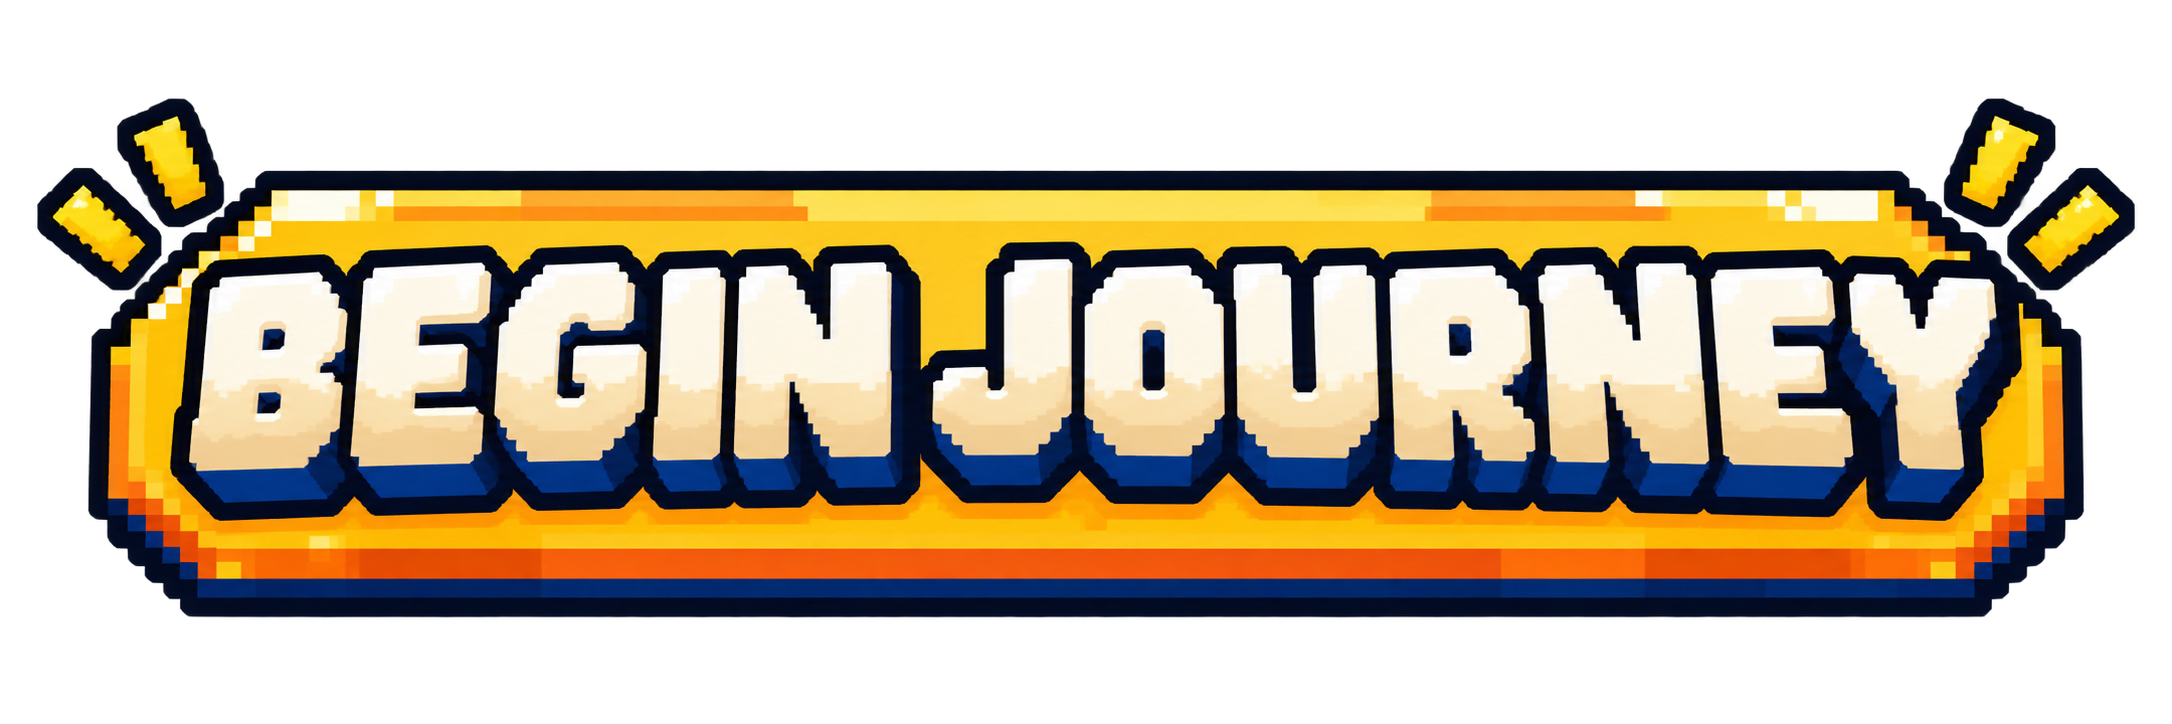
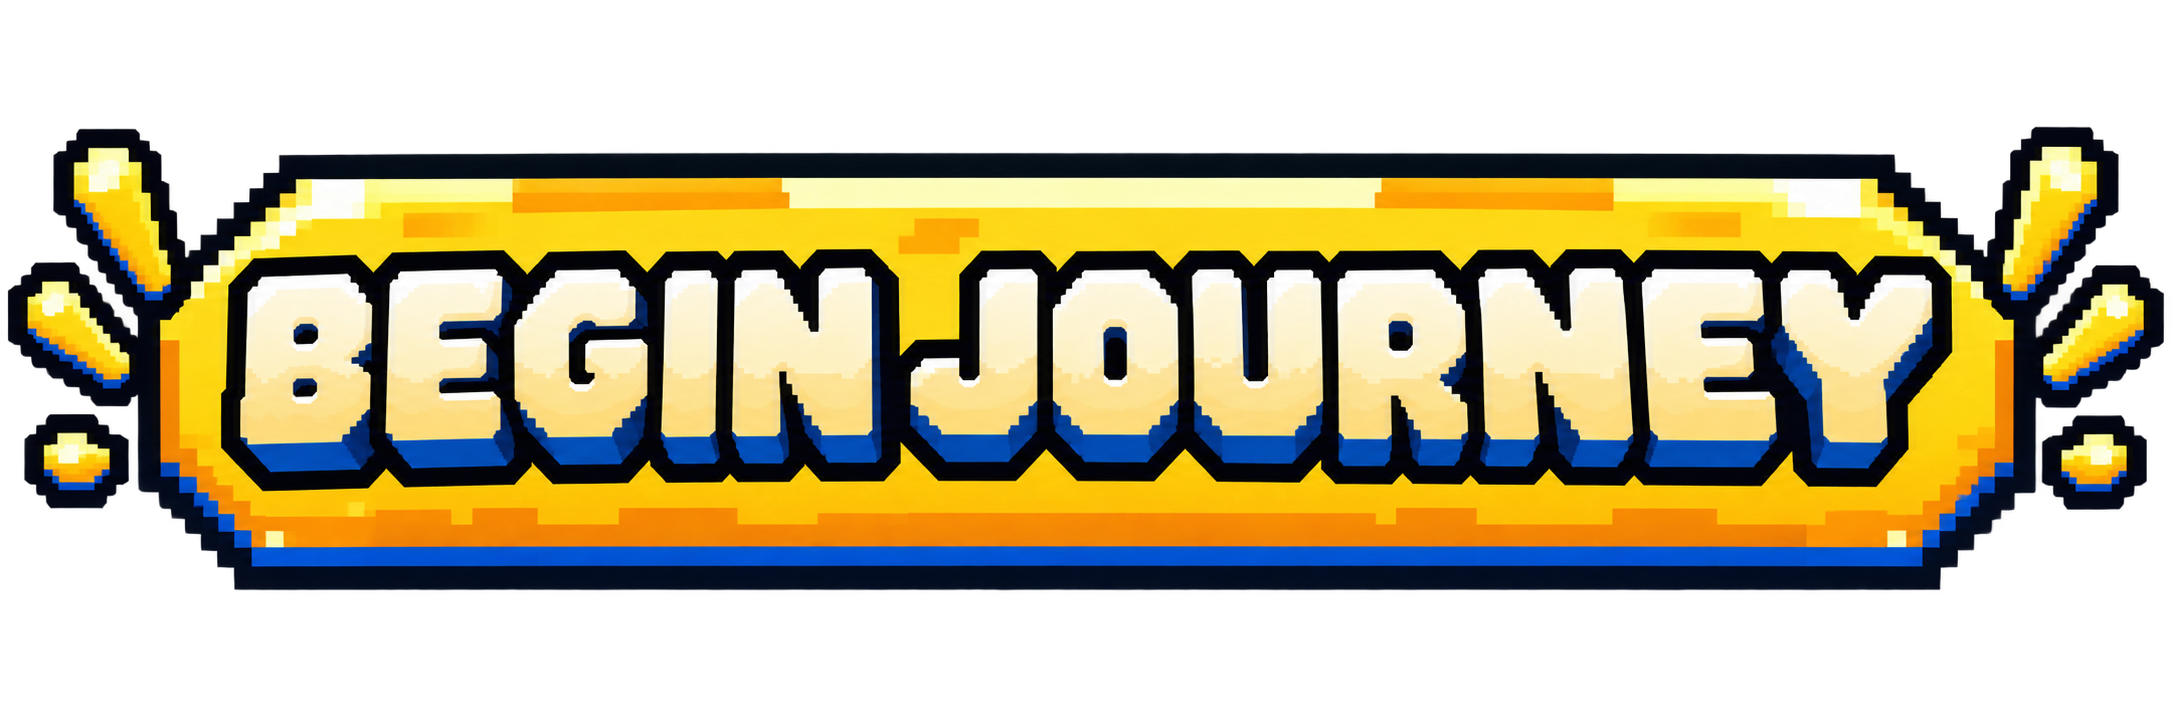
Polish menu artwork and layout and add audio volume sliders

diff --git a/src/shared/LevelAudio.js b/src/shared/LevelAudio.js
@@ -6,8 +6,20 @@ const MUSIC_FILES = {
   level3: "./assets/audio/music/level3-dont-get-caught.wav"
 };
 
+const audioInstances = new Set();
+let musicVolume = 1;
+let soundEffectsVolume = 1;
+
+export function setAudioVolumes(music, effects) {
+  musicVolume = Math.max(0, Math.min(1, Number(music) || 0));
+  soundEffectsVolume = Math.max(0, Math.min(1, Number(effects) || 0));
+  audioInstances.forEach((audio) => audio.applyVolumes());
+}
+
 export class LevelAudio {
   constructor() {
+    audioInstances.add(this);
+    this.soundEffects = new Map();
     this.context = null;
     this.master = null;
     this.engine = null;
@@ -41,10 +53,10 @@ export class LevelAudio {
     if (!AudioContext) return false;
     this.context = new AudioContext();
     this.master = this.context.createGain();
-    this.master.gain.value = this.isMuted ? 0 : 0.16;
+    this.master.gain.value = this.isMuted ? 0 : 0.16 * soundEffectsVolume;
     this.master.connect(this.context.destination);
     this.musicGain = this.context.createGain();
-    this.musicGain.gain.value = this.isMuted ? 0 : MUSIC_GAIN;
+    this.musicGain.gain.value = this.isMuted ? 0 : MUSIC_GAIN * musicVolume;
     this.musicLimiter = this.context.createDynamicsCompressor();
     this.musicLimiter.threshold.value = -8;
     this.musicLimiter.knee.value = 4;
@@ -70,7 +82,10 @@ export class LevelAudio {
     if (this.ensure()) {
       this.musicSource = this.context.createMediaElementSource(music);
       this.musicSource.connect(this.musicGain);
-    } else music.muted = this.isMuted;
+    } else {
+      music.muted = this.isMuted;
+      music.volume = musicVolume;
+    }
     if (this.musicEnabled) music.play().catch(() => {});
   }
 
@@ -149,14 +164,34 @@ export class LevelAudio {
     this.cue(920, 0.035, 0.025);
   }
 
+  trackSoundEffect(element, baseVolume = 1) {
+    this.soundEffects.set(element, baseVolume);
+    element.volume = baseVolume * soundEffectsVolume;
+    element.muted = this.isMuted;
+    element.addEventListener("ended", () => this.soundEffects.delete(element), { once: true });
+  }
+
+  applyVolumes() {
+    if (this.master) this.master.gain.value = this.isMuted ? 0 : 0.16 * soundEffectsVolume;
+    if (this.musicGain) this.musicGain.gain.value = this.isMuted ? 0 : MUSIC_GAIN * musicVolume;
+    if (this.music && !this.musicSource) {
+      this.music.muted = this.isMuted;
+      this.music.volume = musicVolume;
+    }
+    this.soundEffects.forEach((baseVolume, element) => {
+      element.volume = baseVolume * soundEffectsVolume;
+      element.muted = this.isMuted;
+    });
+  }
+
   setMuted(muted) {
     this.isMuted = muted;
-    if (this.master) this.master.gain.value = muted ? 0 : 0.16;
-    if (this.musicGain) this.musicGain.gain.value = muted ? 0 : MUSIC_GAIN;
-    if (this.music && !this.musicSource) this.music.muted = muted;
+    this.applyVolumes();
   }
 
   dispose() {
+    audioInstances.delete(this);
+    this.soundEffects.clear();
     this.stopMusic();
     this.engine?.stop();
     this.ambience?.stop();

diff --git a/src/core/GraphicsSettings.js b/src/core/GraphicsSettings.js
@@ -1,4 +1,5 @@
 import * as THREE from "three";
+import { setAudioVolumes } from "../shared/LevelAudio.js";
 
 const STORAGE_KEY = "wits-commute-graphics-settings";
 
@@ -8,7 +9,7 @@ const PRESETS = Object.freeze({
   high: { resolution: "1", antialiasing: "on", shadows: "high", effects: "on", viewDistance: "far" }
 });
 
-const DEFAULT_SETTINGS = Object.freeze({ preset: "auto", ...PRESETS.medium });
+const DEFAULT_SETTINGS = Object.freeze({ preset: "auto", musicVolume: "100", soundEffectsVolume: "100", ...PRESETS.medium });
 
 function loadSettings() {
   try {
@@ -37,11 +38,16 @@ export class GraphicsSettings {
       effects: document.querySelector("#graphics-effects"),
       viewDistance: document.querySelector("#graphics-view-distance")
     };
+    this.audioControls = {
+      musicVolume: document.querySelector("#settings-music-volume"),
+      soundEffectsVolume: document.querySelector("#settings-effects-volume")
+    };
     this.settings = loadSettings();
     if (this.settings.preset === "auto") {
       Object.assign(this.settings, this.resolvePreset("auto"));
     }
 
+    this.form.addEventListener("input", (event) => this.onAudioInput(event));
     this.form.addEventListener("change", (event) => this.onChange(event));
     this.element.addEventListener("click", (event) => this.onClick(event));
     this.syncControls();
@@ -93,6 +99,7 @@ export class GraphicsSettings {
   }
 
   onChange(event) {
+    if (event.target.type === "range") return;
     const changed = event.target.id;
     if (changed === "graphics-preset") {
       this.settings.preset = this.controls.preset.value;
@@ -116,6 +123,22 @@ export class GraphicsSettings {
     return (navigator.deviceMemory ?? 4) <= 4 ? PRESETS.low : PRESETS.medium;
   }
 
+  onAudioInput(event) {
+    const entry = Object.entries(this.audioControls).find(([, control]) => control === event.target);
+    if (!entry) return;
+    const [key, control] = entry;
+    this.settings[key] = control.value;
+    this.applyAudio();
+  }
+
+  applyAudio() {
+    setAudioVolumes(Number(this.settings.musicVolume) / 100, Number(this.settings.soundEffectsVolume) / 100);
+    Object.entries(this.audioControls).forEach(([key, control]) => {
+      control.value = this.settings[key];
+      document.querySelector(`#${control.id}-value`).textContent = `${control.value}%`;
+    });
+  }
+
   syncControls() {
     Object.entries(this.controls).forEach(([key, control]) => {
       control.value = this.settings[key];
@@ -123,6 +146,7 @@ export class GraphicsSettings {
   }
 
   apply() {
+    this.applyAudio();
     const pixelRatio = Math.min(window.devicePixelRatio * Number(this.settings.resolution), 2);
     this.renderer.setPixelRatio(pixelRatio);
     this.renderer.shadowMap.enabled = this.settings.shadows !== "off";

diff --git a/src/style.css b/src/style.css
@@ -2604,12 +2604,15 @@ body.graphics-effects-off #level2-vignette {
   user-select: none;
 }
 
-/* The selected source has 20px more top padding on its 724px canvas. */
+/* Align the selected plate with the dull artwork while keeping its side accents. */
 .journey-button-selected {
   position: absolute;
-  inset: 0;
+  left: -2.78%;
+  top: -0.29%;
+  width: 105.43%;
+  height: 101.38%;
+  object-fit: fill;
   opacity: 0;
-  transform: translateY(-2.7%);
 }
 #home-menu-primary-action:is(:hover, :focus-visible):not(:disabled) .journey-button-selected { opacity: 1; }
 #home-menu-primary-action:focus-visible { outline: 3px solid #fff; outline-offset: 4px; }
@@ -2660,10 +2663,10 @@ body.graphics-effects-off #level2-vignette {
 }
 
 .home-menu-actions {
-  left: 70%;
+  left: min(70%, calc(100% - min(38.25vw, 30.6rem) - 1rem));
   right: auto;
   transform: translateX(-50%);
-  width: min(60vw, 48rem);
+  width: min(76.5vw, 61.2rem);
   grid-template-columns: repeat(2, minmax(0, 1fr));
   column-gap: 1rem;
 }
@@ -2695,3 +2698,34 @@ body.graphics-effects-off #level2-vignette {
 /* Lift keyboard selection, then give the hovered button highest priority. */
 .home-menu-actions button:focus-visible { z-index: 2; }
 .home-menu-actions button:hover { z-index: 3; }
+
+#menu.menu-credits {
+  background: linear-gradient(rgba(255,255,255,.18), rgba(255,255,255,.3)),
+    url("../public/assets/images/ui/main-menu-v3-background.png") center / cover no-repeat;
+}
+
+#menu.menu-credits .menu-card {
+  display: grid;
+  grid-template-rows: auto auto auto minmax(0, 1fr);
+  height: min(88vh, 760px);
+  overflow: hidden;
+}
+
+#menu.menu-credits #menu-primary-action {
+  order: -1;
+  justify-self: start;
+  margin: 0 0 0.8rem;
+}
+
+#menu.menu-credits #menu-copy {
+  min-height: 0;
+  overflow-y: auto;
+  padding-right: 0.75rem;
+}
+
+#menu.menu-credits [data-game-action="settings"] { display: none; }
+
+.audio-volume-control { display: flex; align-items: center; gap: 0.6rem; }
+.audio-volume-control input { width: 100%; min-width: 0; accent-color: #243556; }
+.audio-volume-control output { min-width: 3ch; text-align: right; font-variant-numeric: tabular-nums; }
+.graphics-settings-card { max-height: 90vh; overflow-y: auto; }

diff --git a/index.html b/index.html
@@ -221,8 +221,14 @@
     <section id="graphics-settings" hidden aria-labelledby="graphics-settings-title">
       <form id="graphics-settings-form" class="graphics-settings-card">
         <p class="menu-kicker">SETTINGS</p>
-        <h2 id="graphics-settings-title">Graphics</h2>
+        <h2 id="graphics-settings-title">Settings</h2>
         <p class="graphics-settings-copy">Changes preview immediately and are saved when applied. Anti-aliasing applies after reloading the page.</p>
+        <label for="settings-music-volume">Music
+          <span class="audio-volume-control"><input id="settings-music-volume" type="range" min="0" max="100" step="1" value="100" /><output id="settings-music-volume-value" for="settings-music-volume">100%</output></span>
+        </label>
+        <label for="settings-effects-volume">Sound effects
+          <span class="audio-volume-control"><input id="settings-effects-volume" type="range" min="0" max="100" step="1" value="100" /><output id="settings-effects-volume-value" for="settings-effects-volume">100%</output></span>
+        </label>
         <label>Preset
           <select id="graphics-preset">
             <option value="auto">Auto</option>

diff --git a/src/core/Game.js b/src/core/Game.js
@@ -834,7 +834,7 @@ export class Game {
   playOneShotAudio(path, volume = 1) {
     if (this.isSoundMuted) return;
     const audio = new Audio(path);
-    audio.volume = volume;
+    this.uiAudio.trackSoundEffect(audio, volume);
     audio.play().catch(() => {
       // Browsers can block this if the game's initial click did not count as
       // a user activation. The level transition remains usable in that case.
@@ -1093,7 +1093,7 @@ export class Game {
   showCredits() {
     this.menuTitleElement.textContent = "Credits";
     this.menuCopyElement.textContent = "Wits Commute Simulator — COMS3006A / COMS3025A. Built with Three.js by the project team.";
-    this.menuPrimaryAction.textContent = "Back to menu";
+    this.menuPrimaryAction.textContent = "Back";
     this.menuCopyElement.innerHTML = CREDITS.map(({ heading, entries }) => `
       <section class="credits-section" aria-label="${heading}">
         <h2>${heading}</h2>

diff --git a/src/levels/ParkingLevel.js b/src/levels/ParkingLevel.js
@@ -2387,7 +2387,7 @@ createParkingSurface(potholes = []) {
 
     const idleAudio = new Audio("./assets/audio/level1/idle-car.wav");
     idleAudio.loop = true;
-    idleAudio.volume = 0.15;
+    this.audio.trackSoundEffect(idleAudio, 0.15);
     idleAudio.muted = this.game.isSoundMuted;
     this.carIdleAudio = idleAudio;
     idleAudio.play().catch(() => {
@@ -2407,7 +2407,7 @@ createParkingSurface(potholes = []) {
     }
 
     const hit = this.collisionHitAudio.cloneNode();
-    hit.volume = THREE.MathUtils.lerp(0.45, 1, THREE.MathUtils.clamp(speedFactor, 0, 1));
+    this.audio.trackSoundEffect(hit, THREE.MathUtils.lerp(0.45, 1, THREE.MathUtils.clamp(speedFactor, 0, 1)));
     this.collisionHitPlaying.add(hit);
     hit.addEventListener("ended", () => this.collisionHitPlaying.delete(hit), { once: true });
     hit.play().catch(() => {
